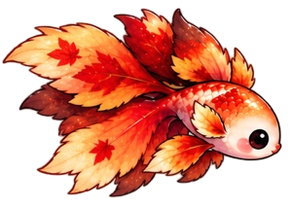
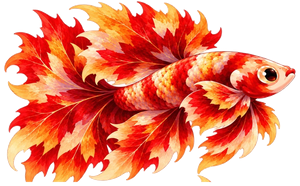
Maple Betta male: new red/orange art, angled pose is eat frame

diff --git a/public/js/data.js b/public/js/data.js
@@ -84,7 +84,7 @@ const DATA = {
 
 /** Frame roles: 0 idle, 1-4 swim, 5 eat (only while eating), 6 sleep, 7 rear/turn */
 // Bump SPRITE_V whenever shipped art changes so phones don't keep stale cached PNGs.
-const SPRITE_V = 31;
+const SPRITE_V = 32;
 // Species with a custom hybrid egg icon (assets/eggs/<species_id>.png).
 const EGG_V = 1;
 const EGG_ART = {
